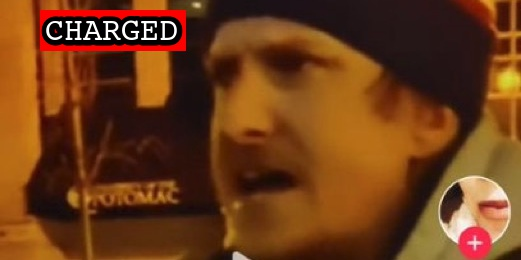
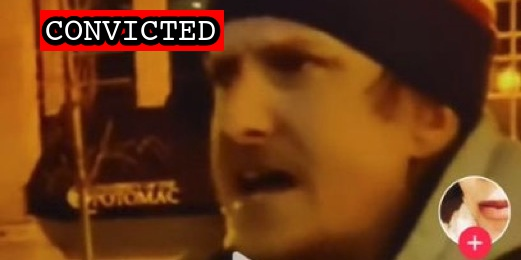
Latest import

Changed region(s): [[0.1228, 0.0308, 0.4299, 0.2154]]

diff --git a/commands/suspect-import.ts b/commands/suspect-import.ts
@@ -223,6 +223,10 @@ const importDoj = async (nameSet: Set<string>) => {
       name = "Yazdani-Isfehani, Loammi";
     }
 
+    if (name == "HAYAH, Uliyahu") {
+      name = "Haya, Uliyahu";
+    }
+
     const nameChunks = name.split(",");
 
     const lastName = toLower(nameChunks[0])
@@ -277,6 +281,7 @@ const falsePositives = (site: string) => {
       set.add("DeGrave");
       set.add("Phipps");
       set.add("Sparks");
+      set.add("Hayah");
       set.add("Spencer");
       set.add("Mazzocco");
       set.add("Munn");

diff --git a/docs/_suspects/benjamin-torre.md b/docs/_suspects/benjamin-torre.md
@@ -4,15 +4,15 @@ lastName: Torre
 hashtag: CapitolBoyBand
 aka:
 residence: Georgia
-status: Charged
+status: Convicted
 date: 2021-02-02
 charged: 2021-02-02
 indicted:
-convicted:
+convicted: 2022-03-09
 sentenced:
 dismissed:
 deceased:
-plea_hearing:
+plea_hearing: 2022-03-09
 sentencing:
 age: 23
 occupation:
@@ -34,10 +34,14 @@ published: true
 caseNumber: 1:21-cr-143
 videos:
 charges:
+- code: 18 USC § 5104(e)(2)(G)
+  title: Parading, demonstrating or picketing in a Capitol building
+  url: https://www.law.cornell.edu/uscode/text/40/5104
+  felony: false
 sentence:
 ---
-
 - [News Report](https://www.cbs46.com/news/dawsonville-23-year-old-arrested-in-connection-to-capitol-hill-violence/article_2ccc63f2-6b08-11eb-9aef-0f13cbd239eb.html)
-- [Statement of Facts](https://www.justice.gov/usao-dc/case-multi-defendant/file/1365776/download)
+- [Statement of Facts](https://www.justice.gov/usao-dc/case-multi-defendant/file/1481511/download)
 - [FBI Statement (Twitter)](https://twitter.com/FBIAtlanta/status/1359210114499170310)
 - [Information](https://www.justice.gov/usao-dc/case-multi-defendant/file/1377841/download)
+- [Plea Agreement](https://www.justice.gov/usao-dc/case-multi-defendant/file/1481506/download)

diff --git a/docs/_suspects/andrew-galloway.md b/docs/_suspects/andrew-galloway.md
@@ -4,15 +4,15 @@ lastName: Galloway
 hashtag:
 aka:
 residence: Wyoming
-status: Charged
+status: Convicted
 date: 2022-01-04
 charged: 2022-01-04
 indicted:
-convicted:
+convicted: 2022-03-08
 sentenced:
 dismissed:
 deceased:
-plea_hearing:
+plea_hearing: 2022-03-08
 sentencing:
 age:
 occupation:
@@ -34,9 +34,14 @@ published: true
 caseNumber: 1:22-cr-000
 videos:
 charges:
+- code: 18 USC § 5104(e)(2)(G)
+  title: Parading, demonstrating or picketing in a Capitol building
+  url: https://www.law.cornell.edu/uscode/text/40/5104
+  felony: false
 sentence:
 ---
 - [News Report](https://trib.com/news/state-and-regional/crime-and-courts/wyoming-man-charged-with-entering-us-capitol-on-jan-6/article_9478da12-6df0-5881-84a7-ec81701cbad0.html)
 - [Complaint](https://www.justice.gov/usao-dc/case-multi-defendant/file/1481226/download)
-- [Statement of Facts](https://www.justice.gov/usao-dc/case-multi-defendant/file/1481231/download)
+- [Statement of Facts](https://www.justice.gov/usao-dc/case-multi-defendant/file/1481541/download)
 - [Information](https://www.justice.gov/usao-dc/case-multi-defendant/file/1481236/download)
+- [Plea Agreement](https://www.justice.gov/usao-dc/case-multi-defendant/file/1481536/download)

diff --git a/docs/_suspects/jeremiah-carollo.md b/docs/_suspects/jeremiah-carollo.md
@@ -31,11 +31,12 @@ description: Click for latest case details. Suspects innocent until proven guilt
 author: seditiontrack
 layout: suspect
 published: true
-caseNumber:
+caseNumber: 1:22-mj-000
 videos:
 charges:
 sentence:
 ---
 - [News Report](https://www.stltoday.com/news/local/crime-and-courts/glen-carbon-man-faces-capitol-riot-charge/article_b02213cd-4f1a-51e7-91d2-1c5e3fadb628.html)
-- [Complaint](https://extremism.gwu.edu/sites/g/files/zaxdzs2191/f/Cody%20Vollan%20Anthony%20Carollo%20Jeremiah%20Carollo%20Criminal%20Complaint.pdf)
+- [Complaint](https://www.justice.gov/usao-dc/case-multi-defendant/file/1481601/download)
 - [Information](https://extremism.gwu.edu/sites/g/files/zaxdzs2191/f/Cody%20Vollan%20Anthony%20Carollo%20Jeremiah%20Carollo%20Information.pdf)
+- [Statement of Facts](https://www.justice.gov/usao-dc/case-multi-defendant/file/1481606/download)

diff --git a/docs/_suspects/anthony-carollo.md b/docs/_suspects/anthony-carollo.md
@@ -31,11 +31,12 @@ description: Click for latest case details. Suspects innocent until proven guilt
 author: seditiontrack
 layout: suspect
 published: true
-caseNumber:
+caseNumber: 1:22-mj-000
 videos:
 charges:
 sentence:
 ---
 - [News Report](https://chicago.suntimes.com/crime/2022/1/19/22891618/feds-charge-three-illinois-men-us-capitol-breach-investigation)
-- [Complaint](https://extremism.gwu.edu/sites/g/files/zaxdzs2191/f/Cody%20Vollan%20Anthony%20Carollo%20Jeremiah%20Carollo%20Criminal%20Complaint.pdf)
+- [Complaint](https://www.justice.gov/usao-dc/case-multi-defendant/file/1481591/download)
 - [Information](https://extremism.gwu.edu/sites/g/files/zaxdzs2191/f/Cody%20Vollan%20Anthony%20Carollo%20Jeremiah%20Carollo%20Information.pdf)
+- [Statement of Facts](https://www.justice.gov/usao-dc/case-multi-defendant/file/1481596/download)

diff --git a/docs/_suspects/kenneth-armstrong.md b/docs/_suspects/kenneth-armstrong.md
@@ -31,11 +31,11 @@ description: Click for latest case details. Suspects innocent until proven guilt
 author: seditiontrack
 layout: suspect
 published: true
-caseNumber:
+caseNumber: 1:22-mj-000
 videos:
 charges:
 sentence:
 ---
 - [News Report](https://www.ktvu.com/news/peninsula-farm-owner-latest-bay-area-resident-charged-in-capitol-riot)
-- [Statement of Facts](https://extremism.gwu.edu/sites/g/files/zaxdzs2191/f/Kenneth%20Scott%20Armstrong%20III%20Statement%20of%20Facts.pdf)
+- [Statement of Facts](https://www.justice.gov/usao-dc/case-multi-defendant/file/1481466/download)
 - [Information](https://extremism.gwu.edu/sites/g/files/zaxdzs2191/f/Kenneth%20Scott%20Armstrong%20III%20Informaiton.pdf)

diff --git a/docs/_suspects/kenneth-rader.md b/docs/_suspects/kenneth-rader.md
@@ -31,11 +31,11 @@ description: Click for latest case details. Suspects innocent until proven guilt
 author: seditiontrack
 layout: suspect
 published: true
-caseNumber:
+caseNumber: 1:22-mj-000
 videos:
 charges:
 sentence:
 ---
 - [News Report](https://www.mynews13.com/fl/orlando/news/2021/07/07/kenneth-reda-viera-high-school-teacher-charged-in-capitol-riot-investigation)
-- [Statement of Facts](https://extremism.gwu.edu/sites/g/files/zaxdzs2191/f/Kenneth%20Rader%20Statement%20of%20Facts.pdf)
+- [Statement of Facts](https://www.justice.gov/usao-dc/case-multi-defendant/file/1481456/download)
 - [Information](https://extremism.gwu.edu/sites/g/files/zaxdzs2191/f/Kenneth%20Rader%20Information.pdf)

diff --git a/docs/_suspects/jolene-eicher.md b/docs/_suspects/jolene-eicher.md
@@ -31,10 +31,10 @@ description: Click for latest case details. Suspects innocent until proven guilt
 author: seditiontrack
 layout: suspect
 published: true
-caseNumber:
+caseNumber: 1:22-mj-000
 videos:
 charges:
 sentence:
 ---
-- [Statement of Facts](https://storage.courtlistener.com/recap/gov.uscourts.dcd.239399/gov.uscourts.dcd.239399.1.1.pdf)
+- [Statement of Facts](https://www.justice.gov/usao-dc/case-multi-defendant/file/1481616/download)
 - [Information](https://extremism.gwu.edu/sites/g/files/zaxdzs2191/f/Jolene%20Eicher%20Information.pdf)

diff --git a/docs/_suspects/ralph-celentano.md b/docs/_suspects/ralph-celentano.md
@@ -3,7 +3,7 @@ name: Ralph Celentano
 lastName: Celentano
 hashtag: ChairGuy
 aka:
-residence:
+residence: New York
 status: Charged
 date: 2022-03-01
 charged: 2022-03-01
@@ -36,7 +36,6 @@ videos:
 charges:
 sentence:
 ---
-
 - [News Report](https://www.nbcnews.com/politics/trump-supporter-blind-sided-capitol-cop-jan-6-arrested-fbi-rcna19330)
 - [Complaint](https://www.justice.gov/usao-dc/case-multi-defendant/file/1481346/download)
 - [Statement of Facts](https://www.justice.gov/usao-dc/case-multi-defendant/file/1481351/download)

diff --git a/docs/_suspects/jason-blythe.md b/docs/_suspects/jason-blythe.md
@@ -31,10 +31,10 @@ description: Click for latest case details. Suspects innocent until proven guilt
 author: seditiontrack
 layout: suspect
 published: true
-caseNumber:
+caseNumber: 1:21-cr-005
 videos:
 charges:
 sentence:
 ---
 - [News Report](https://www.fox4news.com/news/fort-worth-man-charged-for-injuring-officers-during-capitol-riot)
-- [Indictment](https://www.justice.gov/usao-dc/press-release/file/1464586/download)
+- [Indictment](https://www.justice.gov/usao-dc/case-multi-defendant/file/1481481/download)

diff --git a/docs/_suspects/raul-jarrin.md b/docs/_suspects/raul-jarrin.md
@@ -31,10 +31,9 @@ description: Click for latest case details. Suspects innocent until proven guilt
 author: seditiontrack
 layout: suspect
 published: true
-caseNumber:
+caseNumber: 1:22-mj-45
 videos:
 charges:
 sentence:
 ---
-
-- [Statement of Facts](https://extremism.gwu.edu/sites/g/files/zaxdzs2191/f/Raul%20Eduardo%20Jarrin%20Statement%20of%20Facts.pdf)
+- [Statement of Facts](https://www.justice.gov/usao-dc/case-multi-defendant/file/1481476/download)

diff --git a/docs/_suspects/kenneth-massie.md b/docs/_suspects/kenneth-massie.md
@@ -31,9 +31,9 @@ description: Click for latest case details. Suspects innocent until proven guilt
 author: seditiontrack
 layout: suspect
 published: true
-caseNumber:
+caseNumber: 1:22-mj-000
 videos:
 charges:
 sentence:
 ---
-- [Statement of Facts](https://extremism.gwu.edu/sites/g/files/zaxdzs2191/f/Kenneth%20Massie%20Statement%20of%20Facts.pdf)
+- [Statement of Facts](https://www.justice.gov/usao-dc/case-multi-defendant/file/1481626/download)
